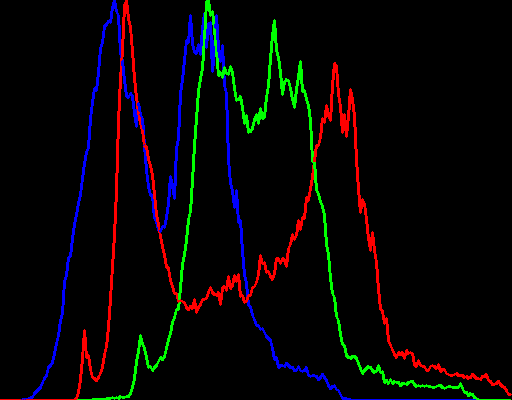
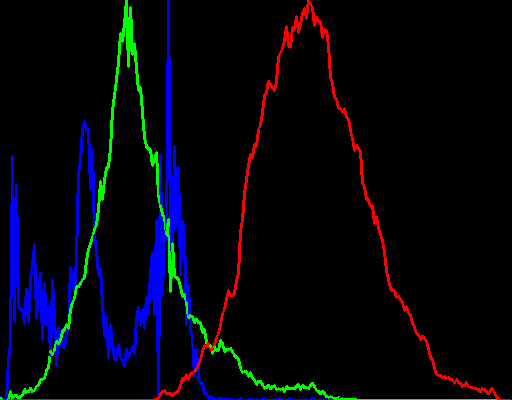
Différentes idées de traitement
- Test sur la saturation avec l'espace HSV
- Test de segmentation
- Test de détection de zones avec ORB
- Test de génération d'histogramme en HSV
- Test de blur médian

Changed region(s): [[0.0, 0.0, 1.0, 1.0], [0.5625, 0.54, 0.5938, 0.63], [0.5, 0.81, 0.5312, 0.87]]

diff --git a/TreatmentSystem.cpp b/TreatmentSystem.cpp
@@ -6,7 +6,7 @@
 
 void TreatmentSystem::RunTests(std::string const& path)
 {
-	TestBlobDetection(path);
+	TestHSVSaturationIdea(path);
 }
 
 
@@ -87,6 +87,54 @@ void TreatmentSystem::TestHistogramGrayscale(std::string const& path)
 	cv::waitKey();
 }
 
+void TreatmentSystem::TestHistogramHSV(std::string const& path)
+{
+	cv::Mat src = cv::imread(path);
+	cv::cvtColor(src, src, cv::COLOR_BGR2HSV);
+
+	std::vector<cv::Mat> bgr_planes;
+	split(src, bgr_planes);
+
+	int histSize = 256;
+	float range[] = { 0, 256 };
+	const float* histRange[] = { range };
+	bool uniform = true, accumulate = false;
+
+	cv::Mat h_hist, s_hist, v_hist;
+	calcHist(&bgr_planes[0], 1, 0, cv::Mat(), h_hist, 1, &histSize, histRange, uniform, accumulate);
+	calcHist(&bgr_planes[1], 1, 0, cv::Mat(), s_hist, 1, &histSize, histRange, uniform, accumulate);
+	calcHist(&bgr_planes[2], 1, 0, cv::Mat(), v_hist, 1, &histSize, histRange, uniform, accumulate);
+
+	int hist_w = 512, hist_h = 400;
+	int bin_w = cvRound((double)hist_w / histSize);
+	cv::Mat histImage(hist_h, hist_w, CV_8UC3, cv::Scalar(0, 0, 0));
+
+	normalize(h_hist, h_hist, 0, histImage.rows, cv::NORM_MINMAX, -1, cv::Mat());
+	normalize(s_hist, s_hist, 0, histImage.rows, cv::NORM_MINMAX, -1, cv::Mat());
+	normalize(v_hist, v_hist, 0, histImage.rows, cv::NORM_MINMAX, -1, cv::Mat());
+
+	for(int i = 1; i < histSize; i++) {
+		line(histImage, cv::Point(bin_w * (i - 1), hist_h - cvRound(h_hist.at<float>(i - 1))),
+			cv::Point(bin_w * i, hist_h - cvRound(h_hist.at<float>(i))),
+			cv::Scalar(255, 0, 0), 2, 8, 0);
+		line(histImage, cv::Point(bin_w * (i - 1), hist_h - cvRound(s_hist.at<float>(i - 1))),
+			cv::Point(bin_w * i, hist_h - cvRound(s_hist.at<float>(i))),
+			cv::Scalar(0, 255, 0), 2, 8, 0);
+		line(histImage, cv::Point(bin_w * (i - 1), hist_h - cvRound(v_hist.at<float>(i - 1))),
+			cv::Point(bin_w * i, hist_h - cvRound(v_hist.at<float>(i))),
+			cv::Scalar(0, 0, 255), 2, 8, 0);
+	}
+
+	imshow("Source image", src);
+	imshow("Source image - Hue", bgr_planes[0]);
+	imshow("Source image - Saturation", bgr_planes[1]);
+	imshow("Source image - Value", bgr_planes[2]);
+	imshow("calcHist Demo", histImage);
+
+	cv::imwrite("Outputs/Histogram.png", histImage);
+	cv::waitKey();
+}
+
 void TreatmentSystem::TestContour(std::string const& path)
 {
 	cv::Mat src = cv::imread(path, cv::IMREAD_GRAYSCALE);
@@ -110,14 +158,15 @@ void TreatmentSystem::TestBlobDetection(std::string const& path)
 {
 	cv::Mat src = cv::imread(path);
 
-	cv::Mat dst;
-	cv::cvtColor(src, dst, cv::COLOR_BGR2HSV);
-	cv::cvtColor(dst, src, cv::COLOR_BGR2GRAY);
+	cv::Mat copy;
+	cv::medianBlur(src, copy, 21);
+	//cv::cvtColor(copy, copy, cv::COLOR_BGR2HSV);
+	cv::cvtColor(copy, copy, cv::COLOR_BGR2GRAY);
 
 	cv::SimpleBlobDetector::Params params;
 	// Thresholds
 	params.minThreshold = 1.f;
-	params.maxThreshold = 255.f;
+	params.maxThreshold = 125.f;
 
 	// Filter by Area
 	params.filterByArea = true;
@@ -142,7 +191,7 @@ void TreatmentSystem::TestBlobDetection(std::string const& path)
 	cv::Ptr<cv::SimpleBlobDetector> detector = cv::SimpleBlobDetector::create(params);
 
 	std::vector<cv::KeyPoint> keyPoints;
-	detector->detect(src, keyPoints);
+	detector->detect(copy, keyPoints);
 
 	std::cout << "Keypoints : " << keyPoints.size() << std::endl;
 
@@ -182,12 +231,18 @@ void TreatmentSystem::TestEdgeDetection(std::string const& path)
 
 void TreatmentSystem::TestThresholding(std::string const& path)
 {
-    cv::Mat src = cv::imread(path, cv::IMREAD_GRAYSCALE);
+    cv::Mat src = cv::imread(path);
+
+	cv::Mat gray;
+	cv::cvtColor(src, gray, cv::COLOR_BGR2GRAY);
     cv::Mat dst;
 
-    cv::threshold(src, dst, 150, 255, cv::THRESH_BINARY);
+    cv::threshold(gray, dst, 120, 255, cv::THRESH_BINARY_INV);
 
-    cv::imshow("Threshold", dst);
+	cv::Mat test;
+	cv::bitwise_and(src, src, test, dst);
+
+    cv::imshow("Threshold", test);
 
     cv::waitKey();
 }
@@ -199,9 +254,186 @@ void TreatmentSystem::TestColorspaces(std::string const& path)
     cv::Mat dst;
     cv::cvtColor(src, dst, cv::COLOR_BGR2HSV);
 
+	cv::namedWindow("Original");
+	cv::namedWindow("Colorspace");
+
+	auto callback = [](int action, int x, int y, int flags, void* userdata)
+	{
+		if(action == cv::EVENT_LBUTTONDOWN)
+		{
+			cv::Point2i pixel = cv::Point2i(x, y);
+			cv::Scalar color = static_cast<cv::Mat*>(userdata)->at<cv::Vec3b>(x, y);
+
+			std::cout << "Pixel aux coordonnees { X = " << pixel.x << " ; Y = " << pixel.y << " } "
+			          << "= { " << color[0] << " ; " << color[1] << " ; " << color[2] << " }" << std::endl;
+		}
+	};
+
+	cv::setMouseCallback("Original", callback, &src);
+	cv::setMouseCallback("Colorspace", callback, &dst);
+	cv::imshow("Original", src);
     cv::imshow("Colorspace", dst);
 
     cv::waitKey();
+}
+
+void TreatmentSystem::TestMedianBlur(std::string const& path)
+{
+	cv::Mat src = cv::imread(path);
+
+	cv::Mat dst;
+	cv::medianBlur(src, dst, 21);
+
+	cv::imshow("Original", src);
+	cv::imshow("Median Blur", dst);
+
+	cv::waitKey();
+}
+
+void TreatmentSystem::TestORB(std::string const& path)
+{
+	cv::Mat image = cv::imread(path);
+
+	cv::Mat hsv, gray, blurred, edges;
+	cv::cvtColor(image, hsv, cv::COLOR_BGR2HSV);
+	cv::cvtColor(hsv, gray, cv::COLOR_BGR2GRAY);
+	cv::GaussianBlur(gray, blurred, cv::Size(5, 5), 0);
+	cv::Canny(blurred, edges, 50, 150);
+
+	std::vector<std::vector<cv::Point>> contours;
+	cv::findContours(edges, contours, cv::RETR_EXTERNAL, cv::CHAIN_APPROX_SIMPLE);
+
+	cv::Mat thresholded;
+	cv::threshold(gray, thresholded, 127, 255, cv::THRESH_BINARY);
+
+	cv::Ptr<cv::FeatureDetector> detector = cv::ORB::create();
+	std::vector<cv::KeyPoint> keypoints;
+	detector->detect(blurred, keypoints);
+
+	cv::Mat imgKeypoints;
+	cv::drawKeypoints(image, keypoints, imgKeypoints, cv::Scalar(0, 0, 255), cv::DrawMatchesFlags::DRAW_RICH_KEYPOINTS);
+
+	cv::Mat labels;
+	cv::Mat stats;
+	cv::Mat centroids;
+	cv::connectedComponentsWithStats(thresholded, labels, stats, centroids);
+
+
+	cv::imshow("ORB1", image);
+	cv::imshow("ORB2", hsv);
+	cv::imshow("ORB3", gray);
+	cv::imshow("ORB4", blurred);
+	cv::imshow("ORB5", edges);
+	cv::imshow("ORB6", thresholded);
+	cv::imshow("ORB7", imgKeypoints);
+	cv::imshow("ORB8", labels);
+	cv::imshow("ORB9", stats);
+	cv::imshow("ORB10", centroids);
+
+	cv::waitKey();
+}
+
+void TreatmentSystem::TestSegmentation(std::string const& path)
+{
+	cv::Mat img = cv::imread(path);
+
+	cv::Mat hsv;
+	cv::cvtColor(img, hsv, cv::COLOR_BGR2HSV);
+
+	cv::Mat mask1, mask2;
+	cv::inRange(hsv, cv::Scalar(0, 100, 20), cv::Scalar(10, 255, 255), mask1);
+	cv::inRange(hsv, cv::Scalar(170, 100, 20), cv::Scalar(180, 255, 255), mask2);
+
+	cv::Mat mask = mask1 | mask2;
+
+	cv::Mat kernel = cv::getStructuringElement(cv::MORPH_ELLIPSE, cv::Size(7, 7));
+	cv::morphologyEx(mask, mask, cv::MORPH_OPEN, kernel);
+
+	std::vector<std::vector<cv::Point>> contours;
+	cv::findContours(mask.clone(), contours, cv::RETR_LIST, cv::CHAIN_APPROX_SIMPLE);
+
+	cv::Mat res = img.clone();
+	for(int i = 0; i < contours.size(); ++i)
+	{
+		cv::drawContours(res, contours, i, cv::Scalar(0, 255, 0));
+
+		cv::RotatedRect r = cv::minAreaRect(contours.at(i));
+		cv::Point2f pts[4];
+		r.points(pts);
+
+		for(int j = 0; j < 4; ++j)
+		{
+			cv::line(res, pts[j], pts[(j + 1) % 4], cv::Scalar(0, 0, 255));
+		}
+
+		cv::Rect box = cv::boundingRect(contours[i]);
+		cv::rectangle(res, box, cv::Scalar(255, 0, 0));
+	}
+
+	cv::imshow("Original", img);
+	cv::imshow("Segmented", res);
+
+	cv::waitKey();
+}
+
+void TreatmentSystem::TestHSVSaturationIdea(std::string const& path)
+{
+	cv::Mat src = cv::imread(path);
+	cv::Mat hsv;
+	cv::cvtColor(src, hsv, cv::COLOR_BGR2HSV);
+
+	std::vector<cv::Mat> hsv_planes;
+	split(hsv, hsv_planes);
+
+	cv::Mat sat = hsv_planes[1];
+
+
+	cv::Mat blurred;
+	cv::medianBlur(sat, blurred, 7);
+
+
+	cv::SimpleBlobDetector::Params params;
+	// Thresholds
+	params.minThreshold = 1.f;
+	params.maxThreshold = 70.f;
+
+	// Filter by Area
+	params.filterByArea = true;
+	params.minArea = 100.f;
+
+	// Filter by Circularity
+	params.filterByCircularity = true;
+	params.minCircularity = 0.1f;
+
+	// Filter by Convexity
+	params.filterByConvexity = true;
+	params.minConvexity = 0.75f;
+
+	// Filter by Inertia
+	params.filterByInertia = true;
+	params.minInertiaRatio = 0.00000001f;
+
+	// Filter by Color
+	params.filterByColor = false;
+	params.blobColor = 0;
+
+	cv::Ptr<cv::SimpleBlobDetector> detector = cv::SimpleBlobDetector::create(params);
+
+	std::vector<cv::KeyPoint> keypoints;
+	detector->detect(blurred, keypoints);
+
+	std::cout << "Keypoints : " << keypoints.size() << std::endl;
+
+	cv::Mat imgKeypoints;
+	cv::drawKeypoints(src, keypoints, imgKeypoints, cv::Scalar(0, 0, 255), cv::DrawMatchesFlags::DRAW_RICH_KEYPOINTS);
+
+	cv::imshow("Original", src);
+	cv::imshow("HSV", hsv);
+	cv::imshow("Saturation", sat);
+	cv::imshow("Blur", blurred);
+	cv::imshow("Keypoints", imgKeypoints);
+	cv::waitKey();
+
 }
 
 // ****************** END TEST FUNCTIONS ********************** //

diff --git a/TreatmentSystem.h b/TreatmentSystem.h
@@ -9,10 +9,15 @@ public:
 private:
     static void TestHistogram(std::string const& path);
     static void TestHistogramGrayscale(std::string const& path);
+    static void TestHistogramHSV(std::string const& path);
     static void TestContour(std::string const& path);
     static void TestBlobDetection(std::string const& path);
     static void TestEdgeDetection(std::string const& path);
     static void TestThresholding(std::string const& path);
     static void TestColorspaces(std::string const& path);
+    static void TestMedianBlur(std::string const& path);
+    static void TestORB(std::string const& path);
+    static void TestSegmentation(std::string const& path);
+    static void TestHSVSaturationIdea(std::string const& path);
 };
 
